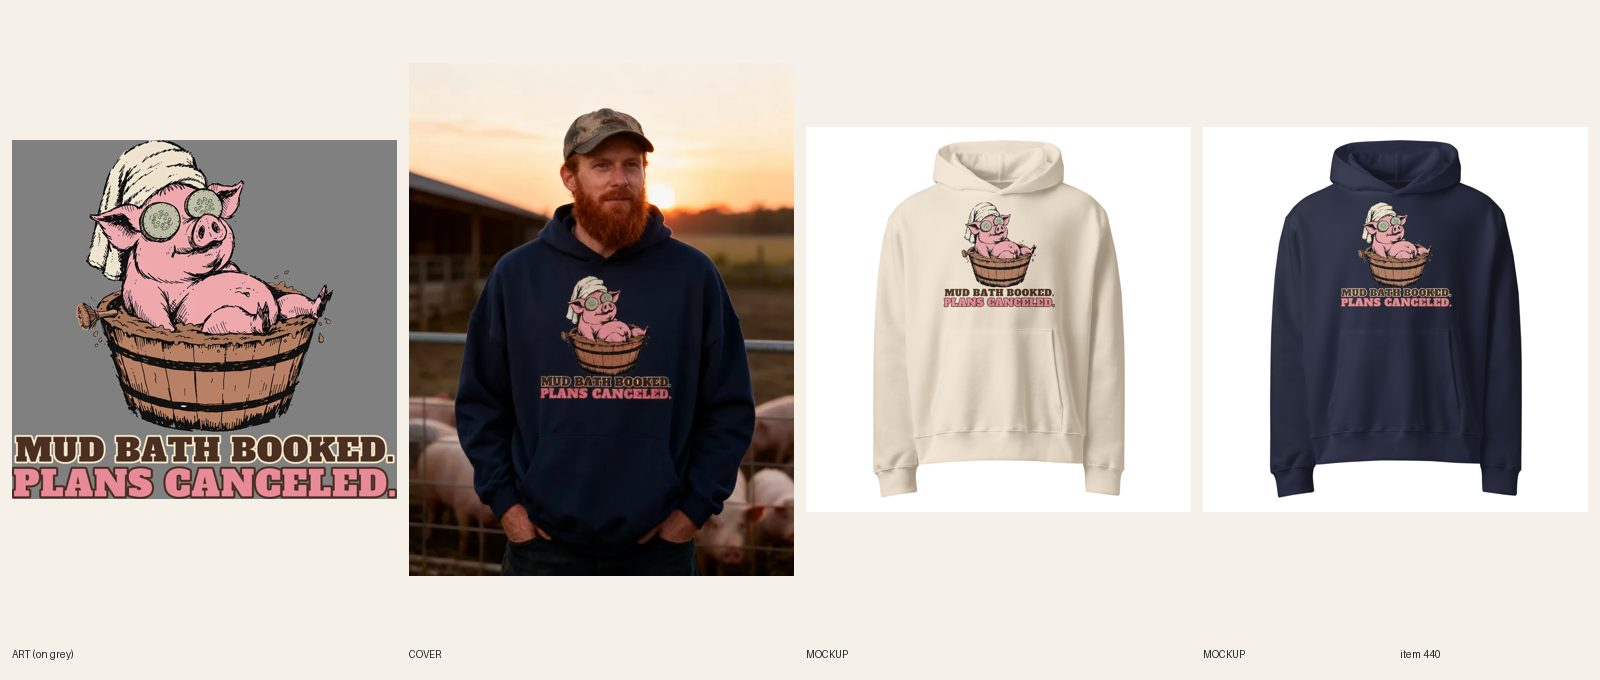
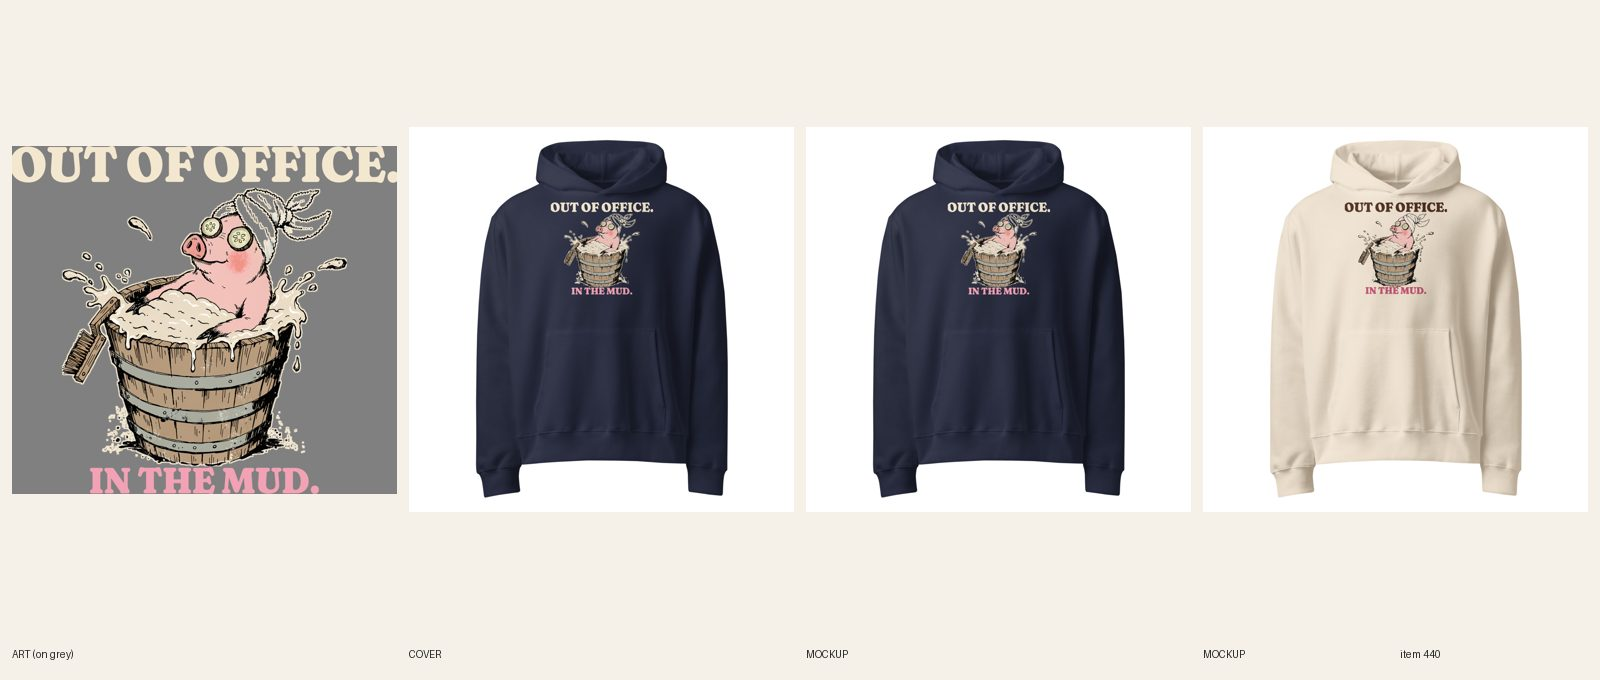
[B] review 440 Out of Office pig oversized hoodie (line + type redo)

diff --git a/docs/pipeline/440-oversized-hoodie-pig-hogwash.md b/docs/pipeline/440-oversized-hoodie-pig-hogwash.md
@@ -1,4 +1,4 @@
-status: REDO
+status: REVIEW
 lane: B
 type: new
 id: 440
@@ -33,3 +33,5 @@ kd: 26
 - 2026-10-17 20:57 UTC builder [B]: synced 12/12. REVIEW. Sheet docs/review/440.jpg.
 - 2026-10-17 21:19 UTC director: LIVE. sheet seen: pig in a barrel spa with cucumber eyes, MUD BATH BOOKED. / PLANS CANCELED. (the 20:25 rewrite) reads on Dust and Navy; cover man at a hog farm at sunset. ACTIVE + Online Store, Headless, Google & YouTube; audit --handle PASS.
 - 2026-10-18 17:22 UTC director: QUALITY RESET grade C (new line + type), REDO. The product stays ACTIVE (same handle, URL, title keyword). 1. Line (R3.12, quality-reset 'Lines'): "MUD BATH BOOKED. / PLANS CANCELED.": Describes pig spa picture; mild self-care aside. Write 5 candidates, keep the one a stranger laughs at in 3 seconds without backstory; kill lines that only describe the picture; if none of the 5 is funny, PARK it. 2. Quality reset type bar (docs/backlog/quality-reset.md, 'The new bar'): headline at least 90% of the art width, heavy, colors pulled from the art; second line at least 45% of the headline's height, never a thin script on a dark or mid garment; use the lettering as a shape (arch, stacked lockup, words breaking into the art), not a plain bar above and a script line below; no font used on more than 1 in 6 of the last 30 designs. 3. Keep the art if it carries the new line, else one new illustration (R4/R5). New print means a new cover per R6.10, copy line one rewritten for the new joke (R8.3), and a fresh review sheet (R7.7). While quality-reset.md says PAUSED, only lane A builds, and only the samples step 2 names.
+- 2026-10-20 05:10 UTC builder [B]: REDO 440 (C grade, line + type) done in place (stays ACTIVE, handle unchanged; title now "Men's Pig – Out of Office, In the Mud Oversized Hoodie"). 5 candidates: "OUT OF OFFICE. / IN THE MUD."; "Plans Canceled. Mud Booked."; "Do Not Disturb. Soaking."; "Wallowing, Respectfully" (old); "Sorry, I'm In My Mud Era". Kept OUT OF OFFICE. / IN THE MUD. (3 seconds, the towel and cucumbers carry it). Source art file wasn't in the repo, so one new Recraft call ($0.04, no words, same pig-in-tub scene). Fraunces Black soft at full print width (headline 136% of art width), second line 73% of headline height. Navy file 1090150076 (cream + pink, thin cream halo); Dust light file 1090150085 (headline fill dark brown, second line berry; light file logged for Dust). FW 1500 TOP 0 (9.0 in tall). 12/12 synced on the right file per color, back logo kept. Fronts + back replaced in place, alts, title, SEO, copy, FAQs rewritten (ink named from the mockups). Phone-size read OK on both. Cover: handle added to retired-covers.json. audit --handle PASS 0 warn. fal $0.04. Sheet docs/review/440.jpg.
+- 2026-10-20 05:10 UTC builder [B]: also retitled the live #362 and #404 to their new lines (done after their REVIEW commits).

diff --git a/docs/intake-log.md b/docs/intake-log.md
@@ -1,5 +1,6 @@
 2026-10-20 03:47 UTC — [H] Helper run: audit 607 products, 0 errors, 30 warnings (no scripted ERRORs to fix). Category check: 0 products without a Shopify category. Site check: 3 newest LIVE pages (#618, #578, #548) all 200. Stuck-work check: nothing BUILDING, all locks under 2h. Telegram: no new messages. Announcement bar already on holiday line. Daily summary not due (before 12:00 UTC). Lock released.
 2026-10-20 03:57 UTC — [E] Builder run: redid #409 Men's Trucker heavyweight hoodie (line + type: MY ETA IS AFTER PIE., new semi + diner + pie art, Storm Blue + Sandstone files, 12/12 synced, copy updated, plain product shot). REVIEW. fal $0.04.
+2026-10-20 04:04 UTC — [B] Builder run: redid #440 Men's Pig oversized hoodie (line + type: OUT OF OFFICE. / IN THE MUD., new pig art, Fraunces, Navy + Dust light files, 12/12 synced); retitled #362 and #404. REVIEW. fal $0.04.
 RUNNING lane B since 2026-10-20 03:28 UTC
 2026-10-20 03:49 UTC — [E] Builder run: redid #395 Women's Teacher crewneck (line + type: NO, WE CAN'T GO OUTSIDE., new bandaged-apple art, Navy + Sand files, 12/12 synced, copy updated, plain product shot). REVIEW. fal $0.04.
 2026-10-20 03:56 UTC — [B] Builder run: redid #404 Unisex Y2K video game hoodie (line + type: MAIN QUEST / POSTPONED., same art, Bevan, Navy + Sand light files, 12/12 synced). REVIEW. fal $0.
